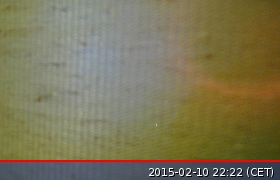
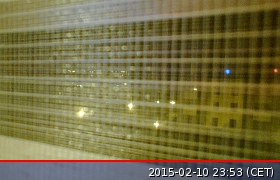
odswiezanie dziala poprawnie

diff --git a/public/js/skrypt.js b/public/js/skrypt.js
@@ -21,13 +21,13 @@ out += " temp: " + temp1 + "*C" + " cisn: " + data.main.pressure + "hPa";
 	});
 
 	setInterval (function(){
-		$('#right3').html('<img src="../../image.jpg"></img>');
-		$('#test').html('<img src="../../image1.jpg"></img>');
+		var rand = Math.floor((Math.random() * 1000000) + 1);
+		$('#right3').html('<img src="../../image.jpg?nocache='+rand+'"></img>');
+		$('#test').html('<img src="../../image1.jpg?nocache='+rand+'"></img>');
 
-
+		console.log('aaa');
 			
-	}, 10000);
-	
+	}, 10000);	
 });
 
 
